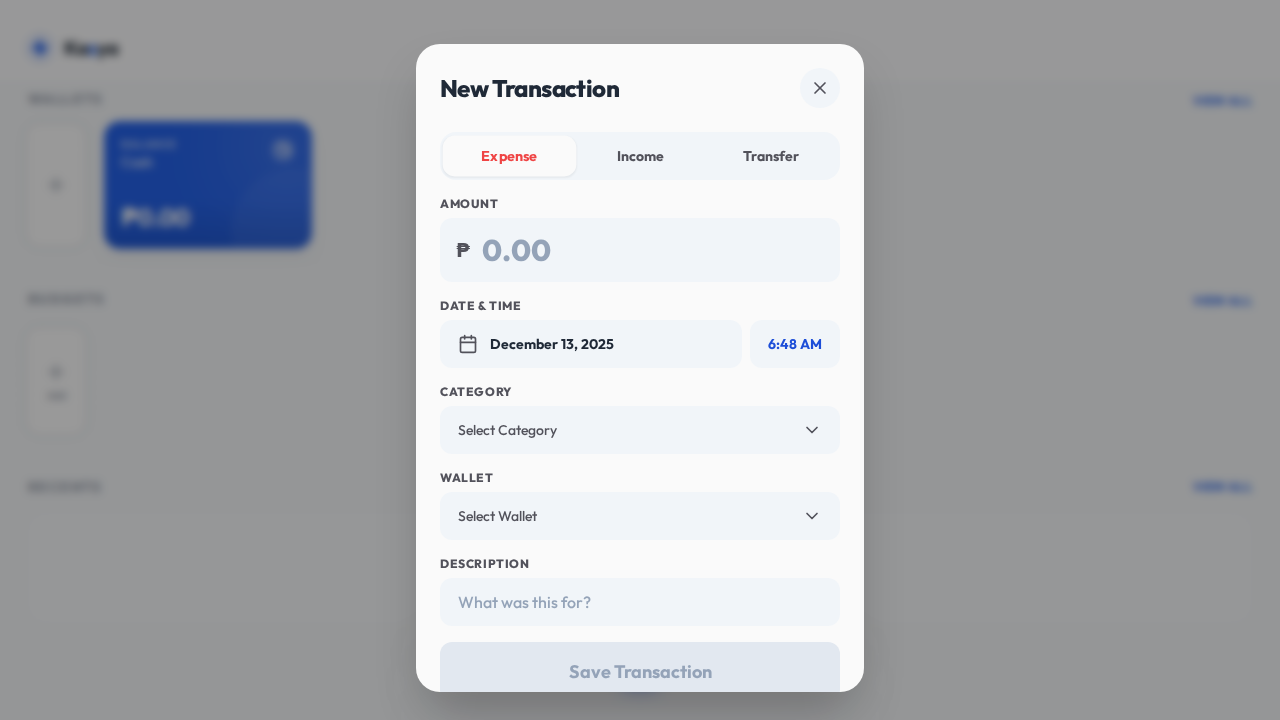
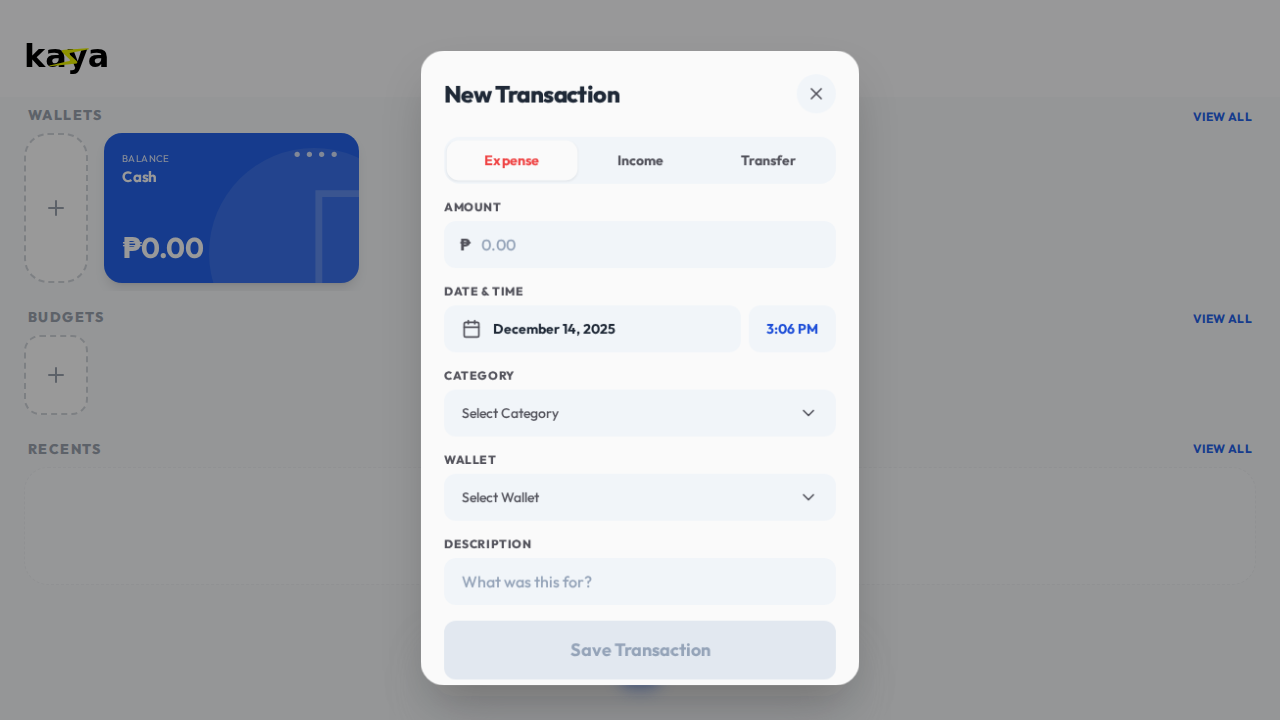
feat: Major UI Rework
This commit introduces a significant redesign of the user interface, addressing several key areas of the application to improve user experience and visual consistency.

- **Homepage & Commitments Tab Overhaul (#102):**
  - Implemented a non-scrollable "Single View" layout for both the Homepage and the Commitments tab, ensuring all primary information is visible at once.
  - Redesigned the "Add Wallet" button to be a rounded rectangle with only a "+" icon, matching the style of other UI elements.
  - Limited the Bills and Loans sections on the Commitments tab to two items by default, with a counter for due items.
  - Updated the Credit Card component on the Commitments page to display the current balance instead of the limit, and added a "Pay" button that triggers a transfer transaction.

- **Wallet Icon Opacity & Color Blending (#105):**
  - Modified the wallet icons in selection menus and lists to have a 40-50% opacity, allowing the wallet's color to blend with the icon for a more personalized feel.

- **Category Icon Styling Reversion (#111):**
  - Reverted the category icon styling to a previous design, reducing the icon size to 45-50% of its container and increasing the internal padding for better visual balance.

- **Loan Installment Card with Progress Tracking (#116):**
  - Introduced a new loan installment card that includes a progress bar and a payment counter (e.g., "01/06 payments") to visually track loan repayment progress.
[…]

diff --git a/src/components/TransactionFormModal.tsx b/src/components/TransactionFormModal.tsx
@@ -5,6 +5,8 @@ import { Category, Wallet, TransactionType, Transaction } from '../types';
 import { getWalletIcon } from './WalletCard';
 import TimePickerV2 from './TimePickerV2';
 import DayPicker from './DayPicker';
+import { useCurrencyInput } from '../hooks/useCurrencyInput';
+import { formatCurrency } from '../utils/number';
 
 interface TransactionFormModalProps {
   isOpen: boolean;
@@ -20,8 +22,8 @@ interface TransactionFormModalProps {
 }
 
 const TransactionFormModal: React.FC<TransactionFormModalProps> = ({ isOpen, onClose, categories, wallets, onSave, onDelete, initialTransaction, currencySymbol, title, isExiting }) => {
-  const [amount, setAmount] = useState('');
-  const [fee, setFee] = useState('');
+  const { value: amount, rawValue: amountRaw, onChange: handleAmountChange, setValue: setAmount } = useCurrencyInput(initialTransaction?.amount || '');
+  const { value: fee, rawValue: feeRaw, onChange: handleFeeChange, setValue: setFee } = useCurrencyInput(initialTransaction?.fee || '');
   const [description, setDescription] = useState('');
   const [selectedCategory, setSelectedCategory] = useState('');
   const [selectedWallet, setSelectedWallet] = useState('');
@@ -53,21 +55,17 @@ const TransactionFormModal: React.FC<TransactionFormModalProps> = ({ isOpen, onC
       }
       setSelectorView('NONE');
     }
-  }, [isOpen, initialTransaction]);
+  }, [isOpen, initialTransaction, setAmount, setFee]);
 
   if (!isOpen && !isExiting) return null;
 
   const handleSubmit = (e: React.FormEvent) => {
     e.preventDefault();
-    const amountVal = parseFloat(amount);
-    if (isNaN(amountVal) || amountVal <= 0) return;
-    if (!selectedWallet) return;
-    if (type !== TransactionType.TRANSFER && !selectedCategory) return;
-    if (type === TransactionType.TRANSFER && !selectedToWallet) return;
+    if (!isFormValid()) return;
     
     onSave({
-      amount: amountVal,
-      fee: parseFloat(fee) || 0,
+      amount: amountRaw,
+      fee: feeRaw,
       type,
       categoryId: type === TransactionType.TRANSFER ? 'cat_transfer' : selectedCategory,
       walletId: selectedWallet,
@@ -91,10 +89,11 @@ const TransactionFormModal: React.FC<TransactionFormModalProps> = ({ isOpen, onC
   const getCategoryIcon = (id: string) => getCategory(id)?.icon || null;
 
   const isFormValid = () => {
-      if (!amount || parseFloat(amount) <= 0) return false;
+      if (amountRaw <= 0) return false;
       if (!selectedWallet) return false;
       if (type !== TransactionType.TRANSFER && !selectedCategory) return false;
       if (type === TransactionType.TRANSFER && !selectedToWallet) return false;
+      if (type === TransactionType.TRANSFER && selectedWallet === selectedToWallet) return false;
       return true;
   };
 
@@ -126,10 +125,9 @@ const TransactionFormModal: React.FC<TransactionFormModalProps> = ({ isOpen, onC
             <div className="relative group">
               <span className="absolute left-4 top-1/2 -translate-y-1/2 text-text-secondary font-bold text-base group-focus-within:text-primary transition-colors">{currencySymbol}</span>
               <input 
-                type="number"
+                type="text"
                 value={amount}
-                step="0.01"
-                onChange={(e) => setAmount(e.target.value)}
+                onChange={handleAmountChange}
                 className="w-full bg-slate-100 border-2 border-transparent focus:border-primary focus:bg-surface rounded-xl px-4 pl-9 text-base font-medium text-text-primary outline-none transition-all placeholder-slate-400 h-12"
                 placeholder="0.00"
                 inputMode="decimal"
@@ -144,9 +142,9 @@ const TransactionFormModal: React.FC<TransactionFormModalProps> = ({ isOpen, onC
                <div className="relative group">
                   <span className="absolute left-4 top-1/2 -translate-y-1/2 text-text-secondary font-bold">{currencySymbol}</span>
                   <input 
-                    type="number"
+                    type="text"
                     value={fee}
-                    onChange={(e) => setFee(e.target.value)}
+                    onChange={handleFeeChange}
                     className="w-full bg-slate-100 border-2 border-transparent focus:border-primary focus:bg-surface rounded-xl px-4 pl-9 text-base font-medium text-text-primary outline-none transition-all placeholder-slate-400 h-12"
                     placeholder="0.00"
                     inputMode="decimal"
@@ -296,7 +294,7 @@ const TransactionFormModal: React.FC<TransactionFormModalProps> = ({ isOpen, onC
                                         </div>
                                         <div className="text-left">
                                             <div className="font-bold text-sm text-text-primary">{w.name}</div>
-                                            <div className="text-xs text-text-secondary font-medium">{currencySymbol}{w.balance.toLocaleString()}</div>
+                                            <div className="text-xs text-text-secondary font-medium">{currencySymbol}{formatCurrency(w.balance)}</div>
                                         </div>
                                     </div>
                                     {(selectorView==='WALLET_FROM' ? selectedWallet : selectedToWallet) === w.id && <Check className="w-5 h-5 text-primary" />}

diff --git a/src/App.tsx b/src/App.tsx
@@ -432,7 +432,7 @@ const App: React.FC = () => {
           loansList.push({ ...loanData, id: newLoanId });
       }
       setData(prev => ({ ...prev, loans: loansList }));
-      if (initialTransactionWalletId && !id && newLoanId) {
+      if (initialTransactionWalletId && !id && newLoanId && loanData.type === 'PAYABLE') {
            const isPayable = loanData.type === 'PAYABLE'; 
            const principal = loanData.totalAmount - (loanData.interest || 0);
            const txAmount = principal - (loanData.fee || 0);
@@ -526,8 +526,8 @@ const App: React.FC = () => {
                      <Logo size="2rem" />
                   </div>
               </div>
-              <div className="flex-1 flex flex-col p-6 pt-2 pb-24">
-                 <div className="flex flex-col gap-4 flex-1">
+              <div className="flex-1 overflow-y-auto no-scrollbar p-6 pt-2 pb-32">
+                 <div className="grid grid-cols-1 gap-4 content-start">
                      <section>
                          <div className="flex justify-between items-end mb-2 px-1">
                             <h2 className="text-sm font-extrabold text-gray-400 uppercase tracking-widest">Wallets</h2>
@@ -549,7 +549,7 @@ const App: React.FC = () => {
                          </div>
                      </section>
 
-<section className="w-full">
+<section>
     <div className="flex justify-between items-end mb-2 px-1">
         <h2 className="text-sm font-extrabold text-gray-400 uppercase tracking-widest">Budgets</h2>
         <button onClick={() => handleOpenOverlay('ALL_BUDGETS')} className="text-xs text-primary font-bold uppercase tracking-wide hover:text-primary-hover transition-colors">View All</button>
@@ -571,16 +571,17 @@ const App: React.FC = () => {
     </div>
 </section>
 
-<section className="flex flex-col flex-1 min-h-0">
+<section>
     <div className="flex justify-between items-center mb-2 px-1">
         <h2 className="text-sm font-extrabold text-gray-400 uppercase tracking-widest">Recents</h2>
         <button onClick={() => handleOpenOverlay('ALL_TRANSACTIONS')} className="text-xs text-primary font-bold uppercase tracking-wide hover:text-primary-hover transition-colors">View All</button>
     </div>
-    <div className="grid gap-0 flex-1 overflow-y-auto no-scrollbar">
+    <div>
         {data.transactions.length === 0 ? (
-            <div className="text-center py-12 opacity-40 text-sm bg-white rounded-3xl border border-dashed border-gray-200 h-full flex items-center justify-center">No recent transactions</div>
+            <div className="text-center py-12 opacity-40 text-sm bg-white rounded-3xl border border-dashed border-gray-200">No recent transactions</div>
         ) : (
-            recentTransactionsWithHeaders.slice(0, 3).map((item) => (
+            <div className="grid gap-0">
+                {recentTransactionsWithHeaders.slice(0, 3).map((item) => (
                 <TransactionItem
                     key={item.tx.id}
                     transaction={item.tx}
@@ -590,7 +591,8 @@ const App: React.FC = () => {
                     dateHeader={item.header}
                     currencySymbol={currentCurrency.symbol}
                 />
-            ))
+            ))}
+            </div>
         )}
     </div>
 </section>

diff --git a/src/hooks/useCurrencyInput.ts b/src/hooks/useCurrencyInput.ts
@@ -1,17 +1,23 @@
 import { useState, useEffect } from 'react';
 
 export const useCurrencyInput = (initialValue: number | string = '') => {
-  const format = (value: string) => {
-    if (!value) return '';
-    let [integer, decimal] = value.replace(/[^\d.]/g, '').split('.');
+  const format = (value: string | number) => {
+    const stringValue = value.toString();
+    if (!stringValue) return '';
+
+    let [integer, decimal] = stringValue.replace(/[^\d.]/g, '').split('.');
+
     integer = integer.replace(/\B(?=(\d{3})+(?!\d))/g, ',');
-    if (decimal) {
+
+    if (decimal !== undefined) {
       decimal = decimal.substring(0, 2);
+      return `${integer}.${decimal}`;
     }
-    return decimal === undefined ? integer : `${integer}${decimal ? '.' : ''}${decimal || ''}`;
+
+    return integer;
   };
 
-  const [formattedValue, setFormattedValue] = useState(format(initialValue.toString()));
+  const [formattedValue, setFormattedValue] = useState(format(initialValue));
 
   useEffect(() => {
     setFormattedValue(format(initialValue.toString()));

diff --git a/src/components/CommitmentsView.tsx b/src/components/CommitmentsView.tsx
@@ -130,7 +130,7 @@ const CommitmentsView: React.FC<CommitmentsViewProps> = ({ wallets, currencySymb
 
     // Overdue check should be against the *actual* next due date, not the projected one
     const actualNextDueDate = new Date(currentDate.getFullYear(), currentDate.getMonth(), loan.dueDay);
-    if (today > actualNextDueDate) {
+    if (today > actualNextDueDate && loan.recurrence !== 'ONE_TIME') {
          return `Overdue since ${actualNextDueDate.toLocaleDateString('en-US', { month: 'short', day: 'numeric' })}`;
     }
 

diff --git a/verify.spec.ts b/verify.spec.ts
@@ -3,7 +3,7 @@ import { test, expect } from '@playwright/test';
 
 test('Frontend Verification', async ({ page }) => {
   // 1. Load the app and verify the home screen
-  await page.goto('http://localhost:5175/');
+  await page.goto('http://localhost:5173/');
   await page.waitForSelector('h2:has-text("Wallets")');
   await page.screenshot({ path: 'screenshot-home.png' });
 
